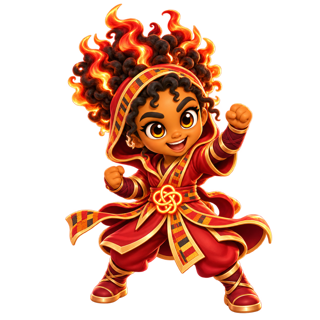
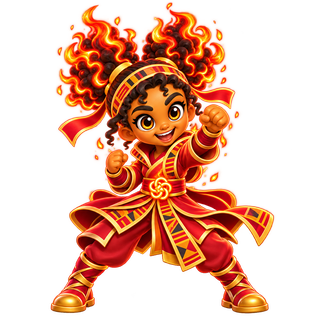
Surge: every Keeper's Nova and six Tidals (Codex brief 15, part 1)
Codex's 13 forms, placed by face so each matches its Keeper's normal
sprite. Sina's Tidal falls back to her own look in water light until it
lands. Design review: all 13 pass (likeness, children, body check).

diff --git a/level1/index.html b/level1/index.html
@@ -5164,13 +5164,13 @@ const FORM = { fire:'Nova', water:'Tidal', wood:'Wild', earth:'Titan', metal:'Ch
 const FORM_PAL = { fire:['#FF8A3A', '#FFB35A', '#FF6A2A', '#FFD08A', '#FF9A4A'], water:['#4E9BE0', '#8FD0FF', '#2F78C8', '#BFE6FF', '#5FB0F0'],
   wood:['#6FBF4A', '#A8E07A', '#4E9A34', '#C8F09A', '#7CCB5A'], earth:['#E6B23A', '#F5D27A', '#C8902A', '#FFE2A0', '#E8B85A'],
   metal:['#C9D3DB', '#E8EEF6', '#9AA8B8', '#FFFFFF', '#B8C4D8'] };
-// the forms Codex has painted so far (briefs 15 and 16 bring the rest); until a form's art lands, its poster and its ride
-// show the Keeper in the element's light
-const SURGE_ART = { 1:['nova'] };
+// the forms Codex has painted so far (brief 15: every Nova, and every Tidal but Sina's; brief 16 brings Wild, Titan and
+// Chrome); until a form's art lands, its poster and its ride show the Keeper in the element's light
+const SURGE_ART = { 1:['nova', 'tidal'], 2:['nova', 'tidal'], 3:['nova', 'tidal'], 4:['nova', 'tidal'], 5:['nova', 'tidal'], 6:['nova', 'tidal'], 7:['nova'] };
 const formKey = () => FORM[keeperEl].toLowerCase();
 function formArt() {
   const k = formKey(), n = 'k' + keeper + '-' + k;
-  if ((SURGE_ART[keeper] || []).includes(k)) { if (!IMG[n]) load(n, `art4/surge/k${keeper}-${k}.png?v=1`); if (ok(IMG[n])) return IMG[n]; }
+  if ((SURGE_ART[keeper] || []).includes(k)) { if (!IMG[n]) load(n, `art4/surge/k${keeper}-${k}.png?v=2`); if (ok(IMG[n])) return IMG[n]; }
   return IMG['k' + keeper];
 }
 const SG = () => S.surge || (S.surge = { q:0, ready:false, used:false, on:null });
